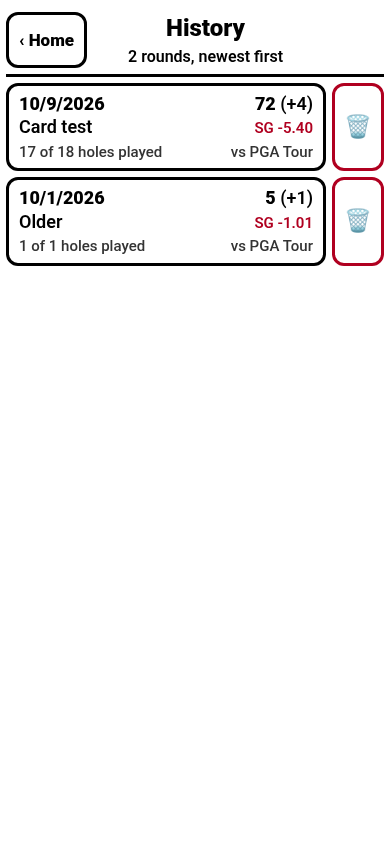
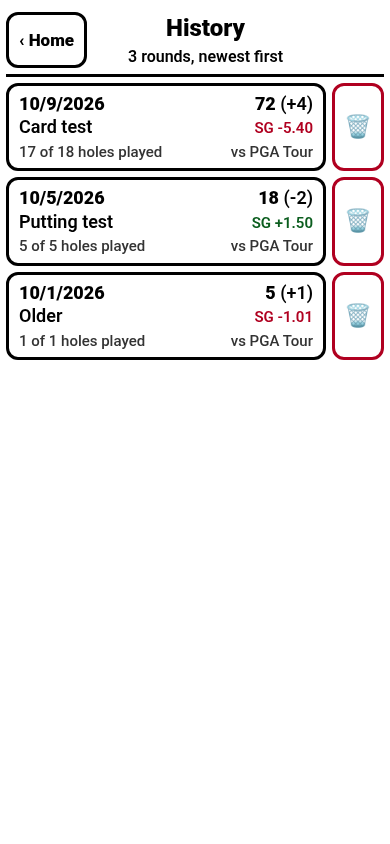
v17: tappable Putts tile -> full-window putting green (1st/2nd/3rd+ putts, rings, made/missed, make % by distance)

Changed region(s): [[0.0, 0.2156, 0.9846, 0.4313], [0.6462, 0.2156, 0.8, 0.2773], [0.3385, 0.0616, 0.3692, 0.0924]]

diff --git a/app.js b/app.js
@@ -345,7 +345,7 @@
       tile('miss', 'Approach misses (missed green) – tap for map', S.apprMiss.length, missMini(S.apprMiss)) +
       proxTile(S) +
       tile('pin', 'Pin location – tap for map', S.pinHoles.length + ' / ' + S.holesDone, '<small class="mini">holes with a pin set</small>') +
-      stat('Putts', S.putts) + stat('Penalty strokes', S.penalties) +
+      puttTile(S) + stat('Penalty strokes', S.penalties) +
       stat('Tee misses L / R', S.teeLeft + ' / ' + S.teeRight) +
       stat('Missed greens left / right', S.apprLeft + ' / ' + S.apprRight) +
       stat('Missed greens short / long', S.apprShort + ' / ' + S.apprOver) + '</div>';
@@ -424,7 +424,7 @@
   // ---------- maps (full-window overlays) ----------
   function mapData(kind) {
     var list = [], n = 0;
-    if (kind === 'pin' || kind === 'prox') return { list: [], rounds: 0 };
+    if (kind === 'pin' || kind === 'prox' || kind === 'putt') return { list: [], rounds: 0 };
     var src = view.mapScope === 'all' ? rounds : [round()];
     src.forEach(function (r) {
       var S = SG.summarize(r, 'pga'); n++;
@@ -497,12 +497,13 @@
   var DIR_ORDER = ['short', 'shortleft', 'shortright', 'left', 'right', 'long', 'longleft', 'longright'];
   function mapHTML() {
     var kind = view.map, D = mapData(kind), list = D.list, all = view.mapScope === 'all';
-    var out = '<div class="mapview" id="mapview" role="dialog" aria-label="' + (kind === 'gir' ? 'GIR map' : kind === 'fw' ? 'Fairway map' : kind === 'pin' ? 'Pin location map' : kind === 'prox' ? 'Proximity map' : 'Approach miss map') + '">' +
-      '<div class="maphead"><b>' + (kind === 'gir' ? 'Greens in regulation' : kind === 'fw' ? 'Tee shots – fairways' : kind === 'pin' ? 'Pin location' : kind === 'prox' ? 'Proximity by distance' : 'Approach misses') + '</b><button class="close" data-act="mapclose" aria-label="Close map">✕ Close</button></div>' +
+    var out = '<div class="mapview" id="mapview" role="dialog" aria-label="' + (kind === 'gir' ? 'GIR map' : kind === 'fw' ? 'Fairway map' : kind === 'pin' ? 'Pin location map' : kind === 'prox' ? 'Proximity map' : kind === 'putt' ? 'Putting map' : 'Approach miss map') + '">' +
+      '<div class="maphead"><b>' + (kind === 'gir' ? 'Greens in regulation' : kind === 'fw' ? 'Tee shots – fairways' : kind === 'pin' ? 'Pin location' : kind === 'prox' ? 'Proximity by distance' : kind === 'putt' ? 'Putting' : 'Approach misses') + '</b><button class="close" data-act="mapclose" aria-label="Close map">✕ Close</button></div>' +
       '<div class="seg"><button data-act="mapscope" data-v="round" class="' + (all ? '' : 'sel') + '">This round</button>' +
       '<button data-act="mapscope" data-v="all" class="' + (all ? 'sel' : '') + '">All rounds (' + rounds.length + ')</button></div>';
     if (kind === 'pin') out += pinMapHTML(all);
     else if (kind === 'prox') out += proxHTML(all);
+    else if (kind === 'putt') out += puttHTML(all);
     else if (kind === 'fw') out += fwHTML(list, all, D);
     else if (kind === 'gir') {
       var far = list.filter(function (m) { return m.ft > 30; }).length, holed = list.filter(function (m) { return m.holed; }).length;
@@ -612,6 +613,76 @@
   }
   // ---------- proximity by distance ----------
   function fmtFt(v) { return v == null ? '–' : Math.round(v) + ' ft'; }
+  // ---------- Putting green ----------
+  function puttTile(S) {
+    var P1 = SG.puttStats(S.puttList.filter(function (p) { return p.n === 1; }));
+    return tile('putt', 'Putts – tap for map', S.putts, '<small class="mini">' + (P1.n ? '1st putts made ' + P1.made + '/' + P1.n : 'no putts yet') + '</small>');
+  }
+  function puttData() {
+    var all = [], n = 0;
+    (view.mapScope === 'all' ? rounds : [round()]).forEach(function (r) { n++; SG.summarize(r, 'pga').puttList.forEach(function (p) { all.push(p); }); });
+    var counts = { '1': 0, '2': 0, '3': 0 }; all.forEach(function (p) { counts[SG.puttGroup(p.n)]++; });
+    var g = view.puttN || '1'; if (!counts[g]) g = ['1', '2', '3'].filter(function (x) { return counts[x]; })[0] || '1';
+    return { list: all.filter(function (p) { return SG.puttGroup(p.n) === g; }), group: g, counts: counts, rounds: n };
+  }
+  // Non-linear radius: 0-10 ft takes 60% of the radius (1 ft rings readable); 10 ft..max ring the rest.
+  var PG2 = { cx: 180, cy: 190, R: 168 };
+  function puttR(ft, maxFt) { var R10 = PG2.R * 0.6; return ft <= 10 ? R10 * ft / 10 : R10 + (PG2.R - R10) * Math.min(1, (ft - 10) / (maxFt - 10)); }
+  function puttSVG(list) {
+    var mx = list.reduce(function (m, p) { return Math.max(m, p.ft); }, 0), maxFt = Math.min(60, Math.max(20, Math.ceil(mx / 5) * 5));
+    var o = '<svg id="puttmap" viewBox="0 0 360 400" role="img" aria-label="Putts by starting distance">' +
+      '<rect width="360" height="400" fill="#cfe8c4"/><circle cx="' + PG2.cx + '" cy="' + PG2.cy + '" r="' + (PG2.R + 6) + '" fill="#3da33d" stroke="#145214" stroke-width="4"/>';
+    var rings = []; for (var f = 1; f <= 10; f++) rings.push(f); for (f = 15; f <= maxFt; f += 5) rings.push(f);
+    // Outer labels every 5 ft only when rings are far enough apart, else every 10 ft.
+    var step5 = puttR(15, maxFt) - puttR(10, maxFt) >= 17, lab = { 1: 1, 2: 1, 3: 1, 5: 1, 10: 1 };
+    for (f = 15; f <= maxFt; f += 5) if (step5 || f % 10 === 0) lab[f] = 1;
+    // Ring labels run along the emptiest diagonal so they don't sit on top of putts.
+    var la = [300, 240, 60, 120].map(function (a) { return [a, list.filter(function (p) { var d = Math.abs(((SG.DIR_ANGLE[p.dir] == null ? -999 : SG.DIR_ANGLE[p.dir]) - a + 540) % 360 - 180); return d < 35; }).length]; })
+      .sort(function (x, y) { return x[1] - y[1]; })[0][0], lc = Math.cos(la * Math.PI / 180), ls = -Math.sin(la * Math.PI / 180), ringBoxes = [];
+    rings.slice().reverse().forEach(function (ft) {
+      var r = puttR(ft, maxFt), major = ft === 3 || ft === 6 || ft === 10 || ft % 10 === 0;
+      o += '<circle class="pring" data-ft="' + ft + '" cx="' + PG2.cx + '" cy="' + PG2.cy + '" r="' + f1(r) + '" fill="none" stroke="#fff" stroke-opacity="' + (major ? '.95' : '.6') + '" stroke-width="' + (major ? 2.2 : 1.1) + '"/>';
+      if (lab[ft] || ft === maxFt) { var lx = PG2.cx + r * lc, ly = PG2.cy + r * ls + 4, txt = ft + (ft === 10 || ft === maxFt ? ' ft' : ''), lw = txt.length * 6;
+        ringBoxes.push([lx - lw / 2, ly - 10, lx + lw / 2, ly + 2]);
+        o += '<text class="ring" x="' + f1(lx) + '" y="' + f1(ly) + '" text-anchor="middle" font-size="' + (ft <= 3 ? 10 : 11) + '" font-weight="900" fill="#fff" stroke="#145214" stroke-width="2.5" paint-order="stroke">' + txt + '</text>'; }
+    });
+    o += '<circle cx="' + PG2.cx + '" cy="' + PG2.cy + '" r="4.5" fill="#000"/>';
+    var seen = {}, nd = list.filter(function (p) { return !p.dir; }).length, ndi = 0, dots = '', boxes = ringBoxes.slice(), lbls = '';
+    list.forEach(function (p) {
+      var r = puttR(p.ft, maxFt), ang, nod = !p.dir, cl = p.ft > maxFt;
+      if (nod) { ang = 90 + 360 * ndi / Math.max(1, nd) + 20; ndi++; }
+      else { var key = p.dir + Math.round(r / 10), j = seen[key] = (seen[key] || 0) + 1; ang = SG.DIR_ANGLE[p.dir] + (j - 1) * 9; }
+      var q = pt(PG2.cx, PG2.cy, r, ang), x = f1(q[0]), y = f1(q[1]), col = p.made ? '#0a7a2a' : '#e0102a';
+      var at = ' class="pdot2" data-made="' + (p.made ? 1 : 0) + '" data-ft="' + p.ft + '" data-hole="' + p.hole + '" data-dir="' + (p.dir || '') + '"';
+      if (nod) dots += '<g' + at + ' data-kind="nodir"><path d="M' + x + ' ' + (y - 9) + ' l9 9 -9 9 -9 -9z" fill="' + (p.made ? col : '#fff') + '" stroke="' + col + '" stroke-width="3"/><text x="' + x + '" y="' + (+y + 4.5) + '" text-anchor="middle" font-size="11" font-weight="900" fill="' + (p.made ? '#fff' : col) + '">?</text></g>';
+      else dots += '<circle' + at + ' data-kind="dir" cx="' + x + '" cy="' + y + '" r="6.5" fill="' + (p.made ? col : '#fff') + '" stroke="' + col + '" stroke-width="3"/>';
+      boxes.push([q[0] - 8, q[1] - 9, q[0] + 8, q[1] + 9]);
+      var t = (Math.round(p.ft * 10) / 10) + (cl ? '›' : ''), w = t.length * 6.5 + 4, cand = [[0, -12], [0, 19], [12 + w / 2, 4], [-12 - w / 2, 4], [0, -24], [0, 31]], best = null;
+      cand.some(function (c) { var cx = Math.max(w / 2, Math.min(360 - w / 2, q[0] + c[0])), ty = q[1] + c[1], b = [cx - w / 2, ty - 10, cx + w / 2, ty + 2];
+        if (!best) best = [cx, ty, b]; if (!boxes.some(function (z) { return b[0] < z[2] && b[2] > z[0] && b[1] < z[3] && b[3] > z[1]; })) { best = [cx, ty, b]; return true; } });
+      boxes.push(best[2]);
+      lbls += '<text class="plbl" x="' + f1(best[0]) + '" y="' + f1(best[1]) + '" text-anchor="middle" font-size="12" font-weight="900" fill="#000" stroke="#fff" stroke-width="3.5" paint-order="stroke">' + t + '</text>';
+    });
+    return o + dots + lbls + '<text x="180" y="16" text-anchor="middle" font-size="13" font-weight="800">LONG ↑</text><text x="180" y="394" text-anchor="middle" font-size="13" font-weight="800">SHORT ↓ (toward you)</text>' +
+      '<text x="6" y="' + (PG2.cy + 4) + '" font-size="13" font-weight="800">◀ L</text><text x="354" y="' + (PG2.cy + 4) + '" text-anchor="end" font-size="13" font-weight="800">R ▶</text></svg>';
+  }
+  function puttHTML(all) {
+    var D = puttData(), P = SG.puttStats(D.list), NM = { '1': '1st putt', '2': '2nd putt', '3': '3rd+ putt' };
+    var btns = ['1', '2', '3'].map(function (g) { var c = D.counts[g];
+      return '<button class="pnbtn' + (g === D.group ? ' sel' : '') + '" data-act="puttn" data-v="' + g + '" data-n="' + c + '"' + (c ? '' : ' disabled') + ' aria-pressed="' + (g === D.group) + '">' + NM[g].replace(' putt', '') + '<small>' + c + '</small></button>'; }).join('');
+    var pct = function (x) { return x == null ? '–' : Math.round(x) + '%'; };
+    var bandRows = P.bands.map(function (b) { return '<tr data-band="' + b.id + '"><td>' + b.id + ' ft</td><td class="num">' + b.n + '</td><td class="num">' + (b.n ? b.made + '/' + b.n : '–') + '</td><td class="num">' + pct(b.pct) + '</td></tr>'; }).join('');
+    return '<div class="pnrow" id="puttbtns" role="group" aria-label="Which putt">' + btns + '</div>' +
+      '<p class="mapsum" id="mapsum"><b>' + P.n + '</b> ' + NM[D.group] + (P.n === 1 ? '' : 's') + (all ? ' in ' + D.rounds + ' round' + (D.rounds === 1 ? '' : 's') : ' this round') + '</p>' +
+      '<div class="stat-grid" id="puttstats">' + stat('Putts', P.n) + stat('Made', P.n ? P.made + ' / ' + P.n + ' (' + pct(P.pct) + ')' : '–') + stat('Avg distance', P.avgFt == null ? '–' : (Math.round(P.avgFt * 10) / 10) + ' ft') + '</div>' +
+      puttSVG(D.list) +
+      '<div class="legend"><span><i class="dot" style="background:#0a7a2a;border-color:#0a7a2a"></i>Made (filled)</span><span><i class="dot" style="background:#fff;border:3px solid #e0102a"></i>Missed (ring)</span>' +
+      '<span><svg width="20" height="20" viewBox="0 0 20 20" style="flex:none"><path d="M10 1 l9 9 -9 9 -9 -9z" fill="#fff" stroke="#555" stroke-width="2.5"/><text x="10" y="14.5" text-anchor="middle" font-size="11" font-weight="900" fill="#555">?</text></svg>No direction entered – right distance, spread around the hole</span>' +
+      '<span>Rings every 1 ft out to 10 ft, then every 5 ft. The inner 10 ft is drawn bigger so short putts are easy to read; the label is the distance in ft.</span></div>' +
+      '<h3>Make % by distance</h3><table class="dirtab" id="puttbands"><tr><th>Distance</th><th class="num">Putts</th><th class="num">Made</th><th class="num">Make %</th></tr>' + bandRows + '</table>' +
+      '<p class="help muted">Every putt = every stroke hit from the green. 1st / 2nd / 3rd+ = its number on that hole (3rd+ includes 4th and later). Direction = where the ball was vs the hole before the putt: for 1st putts the Dir of the approach (as on the GIR map), for later putts the Dir on that putt\'s row. ' +
+      'Bands: 0–3 = under 3 ft, 3–6 = 3 to under 6 ft, and so on. Only finished holes count.</p>';
+  }
   function proxTile(S) {
     var L = S.proxList.filter(function (m) { return SG.inBucket('all', m.from); }), P = SG.proxStats(L);
     return tile('prox', 'Proximity by distance – tap for map', P.n ? fmtFt(P.avgAllFt) : '–',
@@ -943,6 +1014,7 @@
       case 'pinclear': h.pin = ''; save(); render(); return;
       case 'proxb': { var mv0 = document.getElementById('mapview'), st0 = mv0 ? mv0.scrollTop : 0; view.proxB = v; render(); var mv1 = document.getElementById('mapview'); if (mv1) mv1.scrollTop = st0; return; }
       case 'proxlie': { var mvl = document.getElementById('mapview'), stl = mvl ? mvl.scrollTop : 0; view.proxLie = v; render(); var mvl2 = document.getElementById('mapview'); if (mvl2) mvl2.scrollTop = stl; return; }
+      case 'puttn': { var mvp = document.getElementById('mapview'), stp = mvp ? mvp.scrollTop : 0; view.puttN = v; render(); var mvp2 = document.getElementById('mapview'); if (mvp2) mvp2.scrollTop = stp; return; }
       case 'mapscope': view.mapScope = v; render(); var mv = document.getElementById('mapview'); if (mv) mv.scrollTop = 0; return;
       case 'dirpick': view.dirk = k; view.menu = null; break;
       case 'dirclose': view.dirk = null; break;

diff --git a/tests/focused.js b/tests/focused.js
@@ -14,11 +14,17 @@ const BASE = process.env.BASE_URL || 'http://127.0.0.1:8765/', SHOTS = process.e
     const sc = [4, 3, 3, 3, 6, 5, 4, 6, 7, 2, 4, 3, 5, 4, 5, 3, 5, null];
     const holes = pars.map((p, i) => sc[i] == null ? { par: p, finished: false, rows: [R(yds[i], 'tee'), R(150, 'fairway')] } : H(p, yds[i], sc[i]));
     localStorage.setItem('golfsg.rounds.v1', JSON.stringify([{ v: 3, dv: 2, id: 'rcard', date: '2026-10-09T14:00:00.000Z', course: 'Card test', baseline: 'pga', holes },
+      { v: 3, dv: 2, id: 'rputt', date: '2026-10-05T14:00:00.000Z', course: 'Putting test', baseline: 'pga', holes: [
+        { par: 4, finished: true, rows: [R(400, 'tee'), R(150, 'fairway'), { dist: 25, loc: 'green', dir: 'longleft', pen: false }, { dist: 4, loc: 'holed', dir: 'right', pen: false }] },
+        { par: 3, finished: true, rows: [R(170, 'tee'), { dist: 8, loc: 'holed', dir: 'short', pen: false }] },
+        { par: 4, finished: true, rows: [R(400, 'tee'), R(150, 'fairway'), R(40, 'green'), { dist: 6, loc: 'holed', dir: 'long', pen: false }] },
+        { par: 4, finished: true, rows: [R(380, 'tee'), R(140, 'fairway'), { dist: 3, loc: 'holed', dir: 'shortright', pen: false }] },
+        { par: 5, finished: true, rows: [R(520, 'tee'), R(250, 'fairway'), R(90, 'fairway'), { dist: 12, loc: 'green', dir: 'right', pen: false }, { dist: 1.5, loc: 'holed', dir: 'left', pen: false }] }] },
       { v: 3, dv: 2, id: 'rold', date: '2026-10-01T14:00:00.000Z', course: 'Older', baseline: 'pga', holes: [H(4, 400, 5)] }]));
   });
   await page.reload();
   await page.click('[data-act="history"]'); await page.waitForSelector('#histlist');
-  assert.deepStrictEqual(await page.$$eval('#histlist .hrow', r => r.map(x => x.getAttribute('data-id'))), ['rcard', 'rold']);
+  assert.deepStrictEqual(await page.$$eval('#histlist .hrow', r => r.map(x => x.getAttribute('data-id'))), ['rcard', 'rputt', 'rold']);
   await page.screenshot({ path: SHOTS + '/34-history.png' });
   await page.click('#histlist [data-act="open"][data-id="rcard"]');
   const marks = await page.$$eval('.scard tr.sscore td:not(.tot)', tds => tds.map(t => (t.querySelector('.mk') ? t.querySelector('.mk').getAttribute('data-mark') + ':' + t.textContent : 'blank')));
@@ -43,16 +49,51 @@ const BASE = process.env.BASE_URL || 'http://127.0.0.1:8765/', SHOTS = process.e
   assert.match(await page.textContent('#bkremind'), /haven't backed up/);
   const [dl] = await Promise.all([page.waitForEvent('download'), page.click('[data-act="backup"]')]);
   assert.match(dl.suggestedFilename(), /^golf-rounds-backup-\d{4}-\d\d-\d\d\.json$/);
-  const bk = JSON.parse(require('fs').readFileSync(await dl.path(), 'utf8')); assert.strictEqual(bk.rounds.length, 2);
+  const bk = JSON.parse(require('fs').readFileSync(await dl.path(), 'utf8')); assert.strictEqual(bk.rounds.length, 3);
   await page.waitForSelector('#notice'); assert.strictEqual(await page.locator('#bkremind').count(), 0);
-  bk.rounds[1].course = 'Older (edited)'; bk.rounds.push({ id: 'rnew', date: '2026-09-01T10:00:00.000Z', course: 'New', baseline: 'pga', v: 3, dv: 2, holes: [{ par: 4, finished: false, rows: [{ dist: 400, loc: 'tee', dir: '', pen: false }] }] });
+  bk.rounds[2].course = 'Older (edited)'; bk.rounds.push({ id: 'rnew', date: '2026-09-01T10:00:00.000Z', course: 'New', baseline: 'pga', v: 3, dv: 2, holes: [{ par: 4, finished: false, rows: [{ dist: 400, loc: 'tee', dir: '', pen: false }] }] });
   await page.setInputFiles('#restorefile', { name: 'b.json', mimeType: 'application/json', buffer: Buffer.from(JSON.stringify(bk)) });
   await page.waitForFunction(() => /Restored/.test((document.getElementById('notice') || {}).textContent || ''));
-  assert.strictEqual(await page.textContent('#notice'), '✓ Restored from backup: 1 added, 1 replaced, 1 already here. You now have 3 rounds.');
+  assert.strictEqual(await page.textContent('#notice'), '✓ Restored from backup: 1 added, 1 replaced, 2 already here. You now have 4 rounds.');
   await page.screenshot({ path: SHOTS + '/36-restore-success.png' });
-  console.log('✓ backup ' + dl.suggestedFilename() + ' (2 rounds); restore: 1 added, 1 replaced (asked), 1 already here');
-  await page.click('[data-act="history"]'); await page.click('#histlist [data-act="delHist"][data-id="rnew"]'); assert.strictEqual(await page.locator('#histlist .hrow').count(), 2);
+  console.log('✓ backup ' + dl.suggestedFilename() + ' (3 rounds); restore: 1 added, 1 replaced (asked), 2 already here');
+  await page.click('[data-act="history"]'); await page.click('#histlist [data-act="delHist"][data-id="rnew"]'); assert.strictEqual(await page.locator('#histlist .hrow').count(), 3);
   console.log('✓ delete from History');
+  // Putting green
+  await page.click('#histlist [data-act="open"][data-id="rputt"]');
+  assert.match(await page.textContent('[data-act="map"][data-v="putt"]'), /^8\s*Putts – tap for map\s*1st putts made 2\/5/);
+  await page.click('[data-act="map"][data-v="putt"]'); await page.waitForSelector('#puttmap');
+  const pb = await page.$$eval('#puttbtns .pnbtn', bs => bs.map(b => [b.getAttribute('data-v'), +b.getAttribute('data-n'), b.disabled, b.classList.contains('sel')]));
+  assert.deepStrictEqual(pb, [['1', 5, false, true], ['2', 3, false, false], ['3', 0, true, false]]);
+  const dots1 = await page.$$eval('#puttmap .pdot2', ds => ds.map(d => [+d.getAttribute('data-ft'), d.getAttribute('data-made'), d.getAttribute('data-dir'), d.getAttribute('data-kind')]));
+  assert.deepStrictEqual(dots1, [[25, '0', 'longleft', 'dir'], [8, '1', 'short', 'dir'], [40, '0', '', 'nodir'], [3, '1', 'shortright', 'dir'], [12, '0', 'right', 'dir']]);
+  assert.match(await page.textContent('#mapsum'), /^5 1st putts this round/);
+  const st = await page.textContent('#puttstats'); assert.ok(st.includes('2 / 5 (40%)') && st.includes('17.6 ft'), st);
+  const bands = await page.$$eval('#puttbands tr[data-band]', ts => ts.map(t => [...t.querySelectorAll('td')].map(d => d.textContent).join('|')));
+  assert.deepStrictEqual(bands, ['0-3 ft|0|–|–', '3-6 ft|1|1/1|100%', '6-10 ft|1|1/1|100%', '10-20 ft|1|0/1|0%', '20+ ft|2|0/2|0%']);
+  const lbl = await page.$$eval('#puttmap .plbl', ts => ts.map(t => t.textContent)); assert.deepStrictEqual(lbl.slice().sort(), ['12', '25', '3', '40', '8'].sort());
+  const geo = await page.evaluate(() => { const c = [...document.querySelectorAll('#puttmap .pring')].map(r => [+r.getAttribute('data-ft'), +r.getAttribute('r')]); return c; });
+  const r10 = geo.find(g => g[0] === 10)[1], rmax = Math.max(...geo.map(g => g[1])); assert.ok(Math.abs(r10 / rmax - 0.6) < 0.01, 'inner 10 ft = 60% of radius');
+  assert.deepStrictEqual(geo.map(g => g[0]).sort((a, b) => a - b), [1, 2, 3, 4, 5, 6, 7, 8, 9, 10, 15, 20, 25, 30, 35, 40]);
+  // the 3 ft putt sits shortright at radius r(3)
+  const d3 = await page.$eval('#puttmap .pdot2[data-ft="3"]', c => [+c.getAttribute('cx'), +c.getAttribute('cy')]); const r3 = Math.hypot(d3[0] - 180, d3[1] - 190);
+  assert.ok(Math.abs(r3 - 168 * 0.6 * 0.3) < 0.2 && d3[0] > 180 && d3[1] > 190, 'shortright at 3 ft ' + d3);
+  console.log('✓ putting: 1st 5 / 2nd 3 / 3rd+ 0, made 2/5 (40%), avg 17.6 ft, bands, rings 1-10 + every 5 to 40, 10 ft = 60% radius, dots by dir/ft, ? for no dir');
+  await page.screenshot({ path: SHOTS + '/37-putting-1st.png' });
+  await page.click('#puttbtns [data-v="2"]'); assert.match(await page.getAttribute('#puttbtns [data-v="2"]', 'class'), /sel/);
+  const d2 = await page.$$eval('#puttmap .pdot2', ds => ds.map(d => [+d.getAttribute('data-ft'), d.getAttribute('data-made'), d.getAttribute('data-dir')]));
+  assert.deepStrictEqual(d2, [[4, '1', 'right'], [6, '1', 'long'], [1.5, '1', 'left']]); assert.ok((await page.textContent('#puttstats')).includes('3 / 3 (100%)'));
+  await page.screenshot({ path: SHOTS + '/37b-putting-2nd.png' });
+  console.log('✓ 2nd putts use the row Dir; 3rd+ greyed out (none this round)');
+  await page.click('[data-act="mapscope"][data-v="all"]'); await page.click('#puttbtns [data-v="1"]');
+  const allExp = await page.evaluate(() => { const c = { 1: 0, 2: 0, 3: 0 }; window.__golf.rounds().forEach(r => SG.summarize(r).puttList.forEach(p => c[SG.puttGroup(p.n)]++)); return c; });
+  const pbAll = await page.$$eval('#puttbtns .pnbtn', bs => bs.map(b => [+b.getAttribute('data-n'), b.disabled]));
+  assert.deepStrictEqual(pbAll, [[allExp[1], false], [allExp[2], false], [allExp[3], !allExp[3]]]);
+  assert.strictEqual(await page.locator('#puttmap .pdot2').count(), allExp[1]); assert.match(await page.textContent('#mapsum'), new RegExp('^' + allExp[1] + ' 1st putts in 3 rounds'));
+  await page.click('#puttbtns [data-v="3"]'); assert.strictEqual(await page.locator('#puttmap .pdot2').count(), allExp[3]);
+  await page.click('[data-act="mapclose"]'); await page.waitForSelector('#puttmap', { state: 'detached' });
+  console.log('✓ All rounds: 1st/2nd/3rd+ = ' + [allExp[1], allExp[2], allExp[3]].join('/') + '; Close');
+
   assert.deepStrictEqual(errors, []); console.log('FOCUSED OK');
   await browser.close(); if (srv) srv.kill();
 })().catch(e => { console.error('FAIL', e.message); process.exit(1); });

diff --git a/sg.js b/sg.js
@@ -411,7 +411,7 @@
       strokes: 0, par: 0, holesDone: 0, holesStarted: 0, penalties: 0, putts: 0,
       fwHit: 0, fwTotal: 0, gir: 0, girHoles: 0,
       teeLeft: 0, teeRight: 0, apprLeft: 0, apprRight: 0, apprShort: 0, apprOver: 0, allLeft: 0, allRight: 0,
-      apprMiss: [], girMap: [], teeMap: [], pinHoles: [], noPin: 0, proxList: [],
+      apprMiss: [], girMap: [], teeMap: [], pinHoles: [], noPin: 0, proxList: [], puttList: [],
       sgTotal: 0,
       cats: { tee: { sg: 0, n: 0 }, approach: { sg: 0, n: 0 }, short: { sg: 0, n: 0 }, putting: { sg: 0, n: 0 } },
       buckets: {}, holes: []
@@ -429,6 +429,13 @@
       if (normPin(h.pin)) S.pinHoles.push({ hole: hi + 1, pin: normPin(h.pin), gir: a.gir, par: Number(h.par), appr: a.appr }); else S.noPin++;
       S.penalties += a.penalties;
       S.putts += a.putts;
+      // every putt (stroke starting on the green): its number on the hole, start ft, made?, direction of the
+      // ball vs the hole before the putt (the Dir on that row = where the previous stroke finished)
+      var pn = 0;
+      a.shots.forEach(function (r, k) {
+        if (r.start.lie !== 'green') return; pn++;
+        S.puttList.push({ hole: hi + 1, n: pn, ft: r.start.dist, made: r.end.lie === 'holed', dir: k > 0 ? a.shots[k - 1].dir : '' });
+      });
       S.holesDone++; S.strokes += a.strokes; S.par += Number(h.par);
       S.girHoles++; if (a.gir) S.gir++;
       if (a.fairway !== null) { S.fwTotal++; if (a.fairway) S.fwHit++; }
@@ -580,6 +587,17 @@
   }
 
   calibrate();
+  // Putting: bands are lower-inclusive: 0-3 = under 3 ft, 3-6, 6-10, 10-20, 20+
+  var PUTT_BANDS = [{ id: '0-3', lo: 0, hi: 3 }, { id: '3-6', lo: 3, hi: 6 }, { id: '6-10', lo: 6, hi: 10 }, { id: '10-20', lo: 10, hi: 20 }, { id: '20+', lo: 20, hi: Infinity }];
+  function puttGroup(n) { return n >= 3 ? '3' : String(n); } // 3 = "3rd+" (3rd, 4th, ...)
+  function puttStats(list) {
+    var made = list.filter(function (p) { return p.made; }).length;
+    return { n: list.length, made: made, pct: list.length ? 100 * made / list.length : null,
+      avgFt: list.length ? list.reduce(function (t, p) { return t + p.ft; }, 0) / list.length : null,
+      bands: PUTT_BANDS.map(function (b) { var L = list.filter(function (p) { return p.ft >= b.lo && p.ft < b.hi; }), m = L.filter(function (p) { return p.made; }).length;
+        return { id: b.id, n: L.length, made: m, pct: L.length ? 100 * m / L.length : null }; }) };
+  }
+
   /* ===================== BACKUP / RESTORE ===================== */
   // Backup file: { app: 'golf-shot-tracker', kind: 'rounds-backup', version: 1, exported: ISO, rounds: [...] }
   function makeBackup(rounds, now) {
@@ -619,7 +637,7 @@
     return incoming.filter(function (r) { return byId[r.id] && JSON.stringify(byId[r.id]) !== JSON.stringify(r); });
   }
 
-  var api = { makeBackup: makeBackup, parseBackup: parseBackup, mergeRounds: mergeRounds, conflictsOf: conflictsOf, PROX_LIES: PROX_LIES, lieGroup: lieGroup, proxByLie: proxByLie, proxWarnings: proxWarnings, PROX_BUCKETS: PROX_BUCKETS, inBucket: inBucket, roundYd: roundYd, proxStats: proxStats, reachedGreen: reachedGreen, PIN_GRID: PIN_GRID, PIN_NAME: PIN_NAME, normPin: normPin, DIR8: DIR8, DIR_NAME: DIR_NAME, DIR_ANGLE: DIR_ANGLE, normDir: normDir, expected: expected, expectedPGA: expectedPGA, BASELINES: BASELINES, baseline: function (id) { return BL[id] || BL.pga; },
+  var api = { PUTT_BANDS: PUTT_BANDS, puttGroup: puttGroup, puttStats: puttStats, makeBackup: makeBackup, parseBackup: parseBackup, mergeRounds: mergeRounds, conflictsOf: conflictsOf, PROX_LIES: PROX_LIES, lieGroup: lieGroup, proxByLie: proxByLie, proxWarnings: proxWarnings, PROX_BUCKETS: PROX_BUCKETS, inBucket: inBucket, roundYd: roundYd, proxStats: proxStats, reachedGreen: reachedGreen, PIN_GRID: PIN_GRID, PIN_NAME: PIN_NAME, normPin: normPin, DIR8: DIR8, DIR_NAME: DIR_NAME, DIR_ANGLE: DIR_ANGLE, normDir: normDir, expected: expected, expectedPGA: expectedPGA, BASELINES: BASELINES, baseline: function (id) { return BL[id] || BL.pga; },
     CALIB_ROUND: CALIB_ROUND, catLoss: catLoss, analyzeHole: analyzeHole, summarize: summarize,
     rowsToShots: rowsToShots, shotsToRows: shotsToRows, migrateV2Rows: migrateV2Rows, v1ToRows: v1ToRows, holeYards: holeYards,
     rowUnit: rowUnit, lieOf: lieOf, distOf: distOf, rowStrokes: rowStrokes, isPenalty: isPenalty,

diff --git a/tests/sg.test.js b/tests/sg.test.js
@@ -602,3 +602,25 @@ test('backup file + restore merge by id: add new, skip identical, conflicts only
   assert.match(SG.parseBackup('not json').error, /not a golf backup/); assert.match(SG.parseBackup({ hello: 1 }).error, /not a golf backup/);
   assert.match(SG.parseBackup({ rounds: [{ x: 1 }] }).error, /not a golf backup/);
 });
+
+// ---- Putting green ----
+test('putts: every stroke from the green, numbered per hole, start ft, made, direction from the row; stats + bands', () => {
+  const S = SG.summarize({ holes: [
+    { par: 4, finished: true, rows: [R(400, 'tee'), R(150, 'fairway'), R(25, 'green', 'longleft'), R(4, 'holed', 'right')] }, // 25 miss, then 4 ft made
+    { par: 3, finished: true, rows: [R(170, 'tee'), R(8, 'holed', 'short')] },                                                              // 8 made 1st
+    { par: 4, finished: true, rows: [R(400, 'tee'), R(150, 'fairway'), R(40, 'green'), R(6, 'green', 'long'), R(2.5, 'holed')] }, // 3 putts
+    { par: 4, finished: true, rows: [R(400, 'tee'), R(120, 'fairway'), R(15, 'holedx')] },                                                   // chip-in: no putts
+    { par: 4, finished: false, rows: [R(400, 'tee'), R(150, 'fairway'), R(10, 'green')] }
+  ] });
+  assert.deepStrictEqual(S.puttList.map(p => [p.hole, p.n, p.ft, p.made, p.dir]), [
+    [1, 1, 25, false, 'longleft'], [1, 2, 4, true, 'right'], [2, 1, 8, true, 'short'],
+    [3, 1, 40, false, ''], [3, 2, 6, false, 'long'], [3, 3, 2.5, true, '']]);
+  assert.strictEqual(S.puttList.length, S.putts, 'putt list = Putts tile');
+  assert.deepStrictEqual([1, 2, 3, 4, 7].map(SG.puttGroup), ['1', '2', '3', '3', '3'], '3rd+ includes 4th and later');
+  const P = SG.puttStats(S.puttList.filter(p => p.n === 1));
+  assert.deepStrictEqual([P.n, P.made, Math.round(P.pct)], [3, 1, 33]); assert.ok(Math.abs(P.avgFt - (25 + 8 + 40) / 3) < 1e-9);
+  const A = SG.puttStats(S.puttList);
+  assert.deepStrictEqual(A.bands.map(b => [b.id, b.n, b.made]), [['0-3', 1, 1], ['3-6', 1, 1], ['6-10', 2, 1], ['10-20', 0, 0], ['20+', 2, 0]]);
+  assert.strictEqual(A.bands.reduce((t, b) => t + b.n, 0), A.n, 'bands add up');
+  assert.deepStrictEqual(SG.puttStats([{ ft: 3, made: true }, { ft: 2.99, made: false }, { ft: 10, made: true }, { ft: 20, made: false }]).bands.map(b => b.n), [1, 1, 0, 1, 1], 'lower-inclusive band edges');
+});

diff --git a/styles.css b/styles.css
@@ -276,3 +276,12 @@ body.noscroll { overflow: hidden; }
 .hrow .hdel { flex: 0 0 52px; padding: 0; font-size: 22px; border-color: var(--red); }
 .tbspace { width: 60px; }
 .sclegend .lgpar { color: #999; font-weight: 700; }
+/* v17 putting green */
+.pnrow { display: flex; gap: 6px; margin: 8px 0; }
+.pnrow .pnbtn { flex: 1 1 0; min-height: 56px; border: 3px solid #000; border-radius: 12px; background: #fff; color: #000; font-size: 18px; font-weight: 900; display: flex; flex-direction: column; align-items: center; justify-content: center; line-height: 1.1; }
+.pnrow .pnbtn small { font-size: 13px; color: #1e6fd9; }
+.pnrow .pnbtn.sel { background: #000; color: #fff; box-shadow: 0 0 0 3px #ffd23f; }
+.pnrow .pnbtn.sel small { color: #ffd23f; }
+.pnrow .pnbtn:disabled { background: #eee; color: #b0b0b0; border-color: #d0d0d0; opacity: 1; }
+.pnrow .pnbtn:disabled small { color: #b0b0b0; }
+#puttstats { grid-template-columns: repeat(3, 1fr); }

diff --git a/sw.js b/sw.js
@@ -1,5 +1,5 @@
 // Offline support: cache the whole app on install, serve cache-first.
-const CACHE = 'golf-sg-v16';
+const CACHE = 'golf-sg-v17';
 const ASSETS = ['./', './index.html', './styles.css', './sg.js', './app.js',
   './manifest.webmanifest', './icons/apple-touch-icon.png', './icons/icon-192.png',
   './icons/icon-512.png', './icons/icon-512-maskable.png'];
